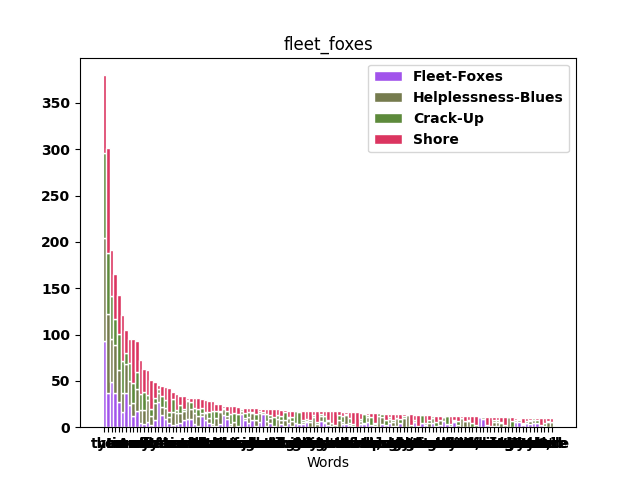
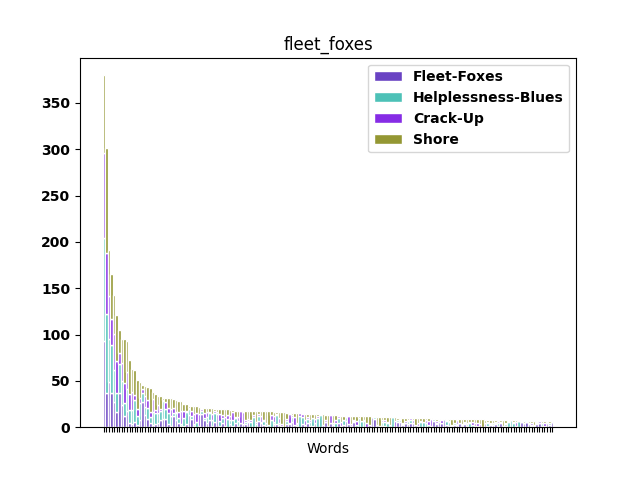
Updated readme

Changed region(s): [[0.125, 0.2812, 0.9062, 0.9688], [0.5625, 0.125, 0.625, 0.3125]]

diff --git a/main.py b/main.py
@@ -2,12 +2,12 @@
 # Chart the frequency of each word used by a given artist
 
 from bs4 import BeautifulSoup
+from matplotlib import rc
+import matplotlib.pyplot as plt
 import wikipediaapi
 import requests
 import re
 import random
-import matplotlib.pyplot as plt
-from matplotlib import rc
 
 
 def get_random_colour():
@@ -19,7 +19,6 @@ def get_artist_name():
 
 
 def pull_data(artist):
-    # TODO make way more robust
     wiki_wiki = wikipediaapi.Wikipedia('en')
 
     artistPage = wiki_wiki.page(artist)
@@ -91,7 +90,7 @@ def pull_data(artist):
 
             # Leaving this here for now just in case i missed anything in above regex
             if lyrics.__contains__('['):
-                print('wtf')
+                print('Unrecognized Character:')
                 print(lyrics)
                 exit()
 
@@ -164,7 +163,10 @@ def chart_data(data, name):
 
     rc('font', weight='bold')
     barWidth = 1
-    xLabel = [i[0] for i in topWords]
+    if len(topWords) > 25:
+        xLabel = []
+    else:
+        xLabel = [i[0] for i in topWords]
     r = [i for i in range(wordsToShow)]
     startHeights = [0 for i in range(wordsToShow)]
 

diff --git a/README.md b/README.md
@@ -2,3 +2,14 @@
 Chart the fequency of words used by a given artist
 
 Quick project to practice webscrapping 
+
+Example output:
+
+Top 15 words for Joy Division
+![image info](./freqPNG/joy_division_Figure.png)
+
+Top 12 words for The Strokes
+![image info](./freqPNG/the_strokes_Figure.png)
+
+Top 200 words for Fleet Foxes
+![image info](./freqPNG/fleet_foxes_Figure.png)
